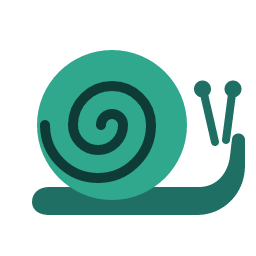
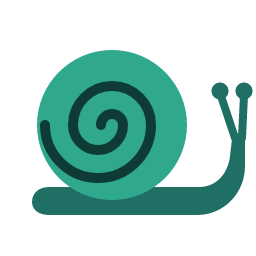
Snail: eye stalks grow from the head, not from mid-air
The stalks started above the body, left of the head, so they floated.
They now rise from the head's top. Redrawn everywhere the snail is: the
app icon (snail.svg and the PNG/ICO set from tauri icon, which the tray
uses too), Snail.svelte, the README pictures, and the site's symbol,
favicons and Open Graph image.

Changed region(s): [[0.75, 0.3125, 1.0, 0.5938]]

diff --git a/site/index.html b/site/index.html
@@ -314,9 +314,9 @@
   <defs>
     <symbol id="snail-light" viewBox="0 0 512 512">
       <path d="M64 404c0-18 14-30 34-30h300c34 0 58-26 62-62l4-34c2-16 26-14 26 2v52c0 54-42 98-96 98H98c-20 0-34-10-34-26z" fill="#8fd3bf"/>
-      <path d="M430 284l-22-96M452 280l12-92" stroke="#8fd3bf" stroke-width="16" stroke-linecap="round" fill="none"/>
-      <circle cx="405" cy="178" r="17" fill="#8fd3bf"/>
-      <circle cx="466" cy="178" r="17" fill="#8fd3bf"/>
+      <path d="M470 276 442 192M484 276l4-86" stroke="#8fd3bf" stroke-width="16" stroke-linecap="round" fill="none"/>
+      <circle cx="440" cy="182" r="17" fill="#8fd3bf"/>
+      <circle cx="488" cy="182" r="17" fill="#8fd3bf"/>
       <circle cx="224" cy="250" r="150" fill="#2FA88E"/>
       <path d="M224 250m-22 0a22 22 0 1 1 44 0a50 50 0 1 1-100 0a78 78 0 1 1 156 0a106 106 0 1 1-212 0" stroke="#0E3B35" stroke-width="20" stroke-linecap="round" fill="none"/>
     </symbol>

diff --git a/app/src/lib/components/Snail.svelte b/app/src/lib/components/Snail.svelte
@@ -12,14 +12,14 @@
     fill={body}
   />
   <path
-    d="M430 284l-22-96M452 280l12-92"
+    d="M470 276 442 192M484 276l4-86"
     stroke={body}
     stroke-width="16"
     stroke-linecap="round"
     fill="none"
   />
-  <circle cx="405" cy="178" r="17" fill={body} />
-  <circle cx="466" cy="178" r="17" fill={body} />
+  <circle cx="440" cy="182" r="17" fill={body} />
+  <circle cx="488" cy="182" r="17" fill={body} />
   <circle cx="224" cy="250" r="150" fill="#2FA88E" />
   <path
     d="M224 250m-22 0a22 22 0 1 1 44 0a50 50 0 1 1-100 0a78 78 0 1 1 156 0a106 106 0 1 1-212 0"
